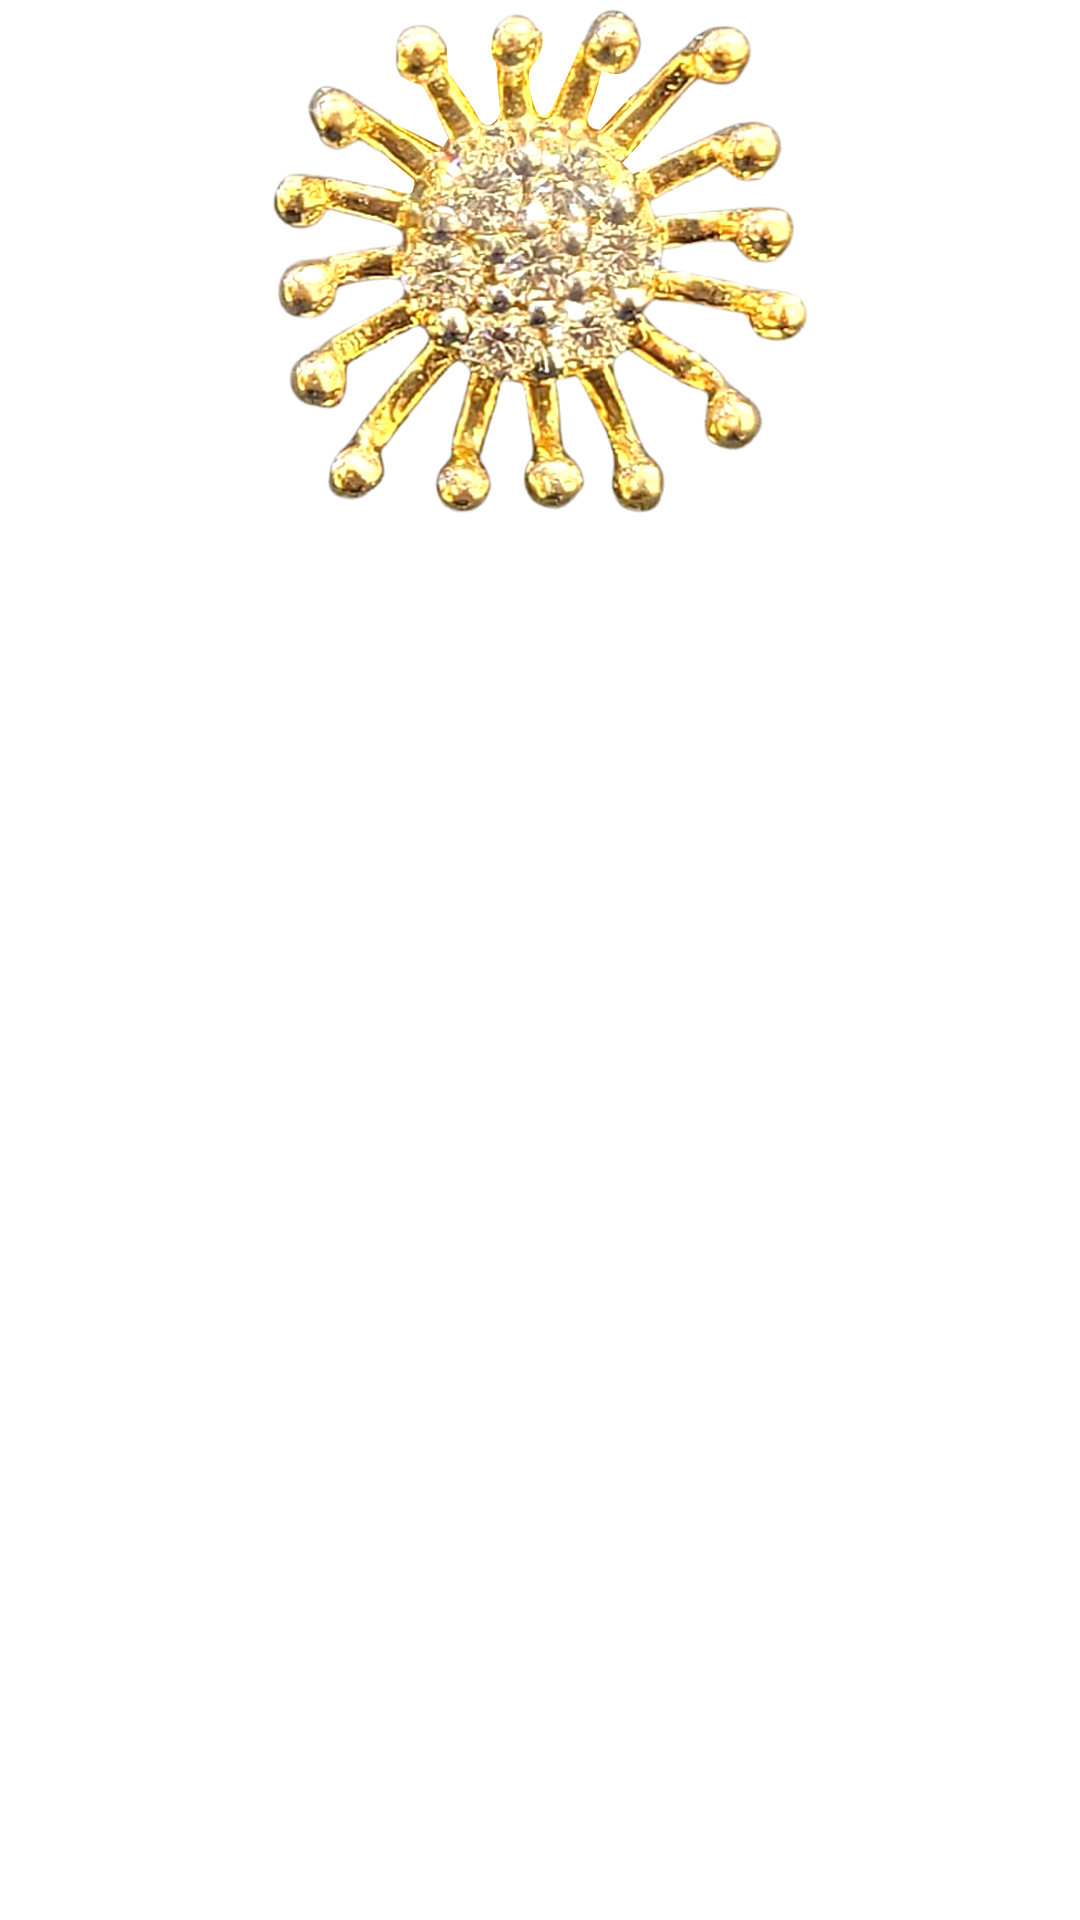
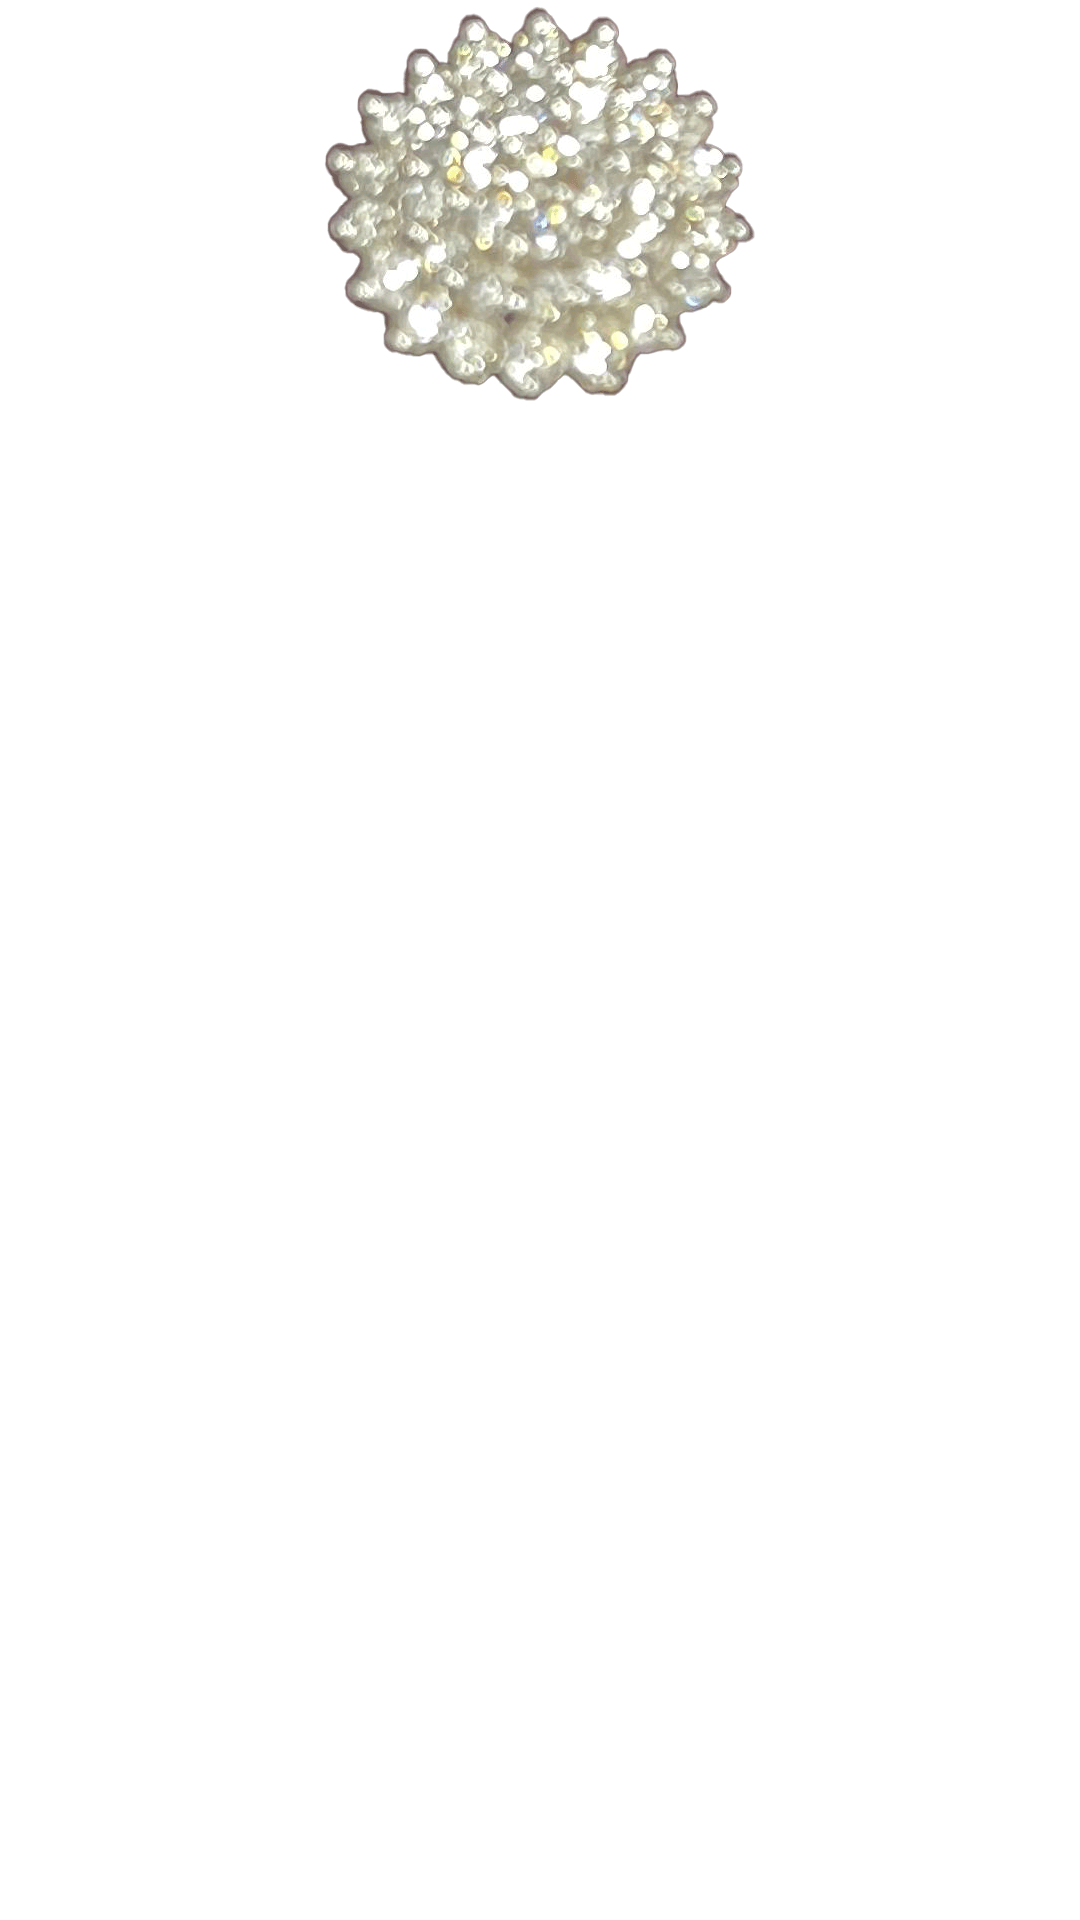
F3

Changed region(s): [[0.2444, 0.0, 0.7639, 0.2812]]

diff --git a/script.js b/script.js
@@ -59,7 +59,7 @@ function selectJewelryType(type) {
   switch (type) {
     case 'gold_earrings':     end = 11; break;
     case 'gold_necklaces':    end = 6; break;
-    case 'diamond_earrings':  end = 0; break;
+    case 'diamond_earrings':  end = 10; break;
     case 'diamond_necklaces': end = 3; break;
     default:                  end = 15;
   }
